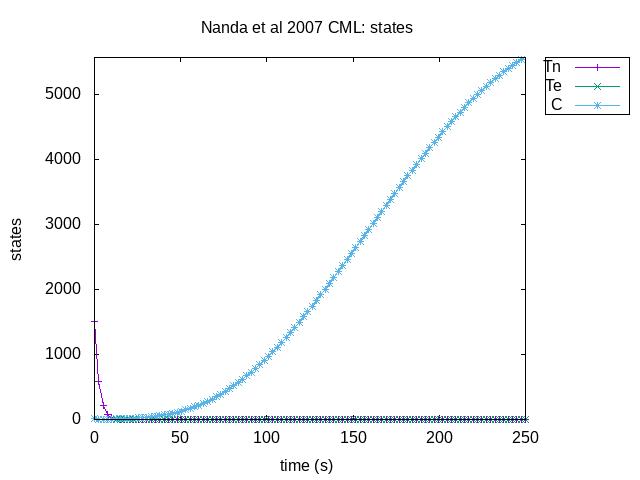
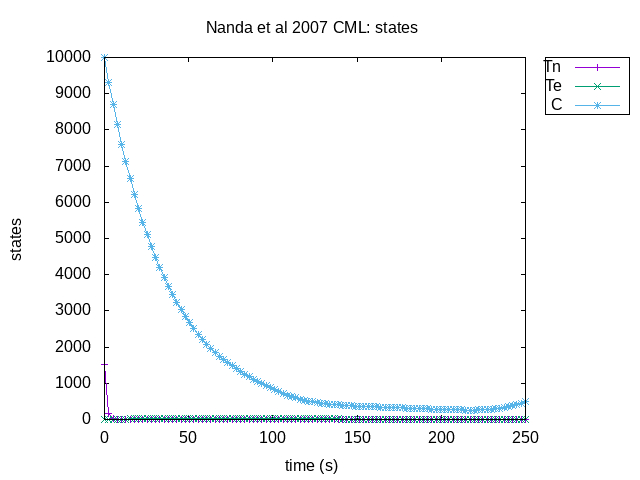
psopt fixed via hermite-simpson replacing trapezoidal

diff --git a/CML/nanda07/README.md b/CML/nanda07/README.md
@@ -168,10 +168,15 @@ ggsave("CML/immuno/outs/nandaFig2aCU12.png",height=3,width=4)
 ```
 
 The control efforts do not match the paper exactly, but their impacts on C are fairly similar. 
+Note: replacing bvpshoot() with bvptwp() and bvpcol() threw errors. 
 
-Note 1: attempts to replace bvpshoot() with bvptwp() and bvpcol() failed with errors. 
+The C++ program PSOPT (see user.cxx in this folder) produced these plots.  
 
-Note 2: The C++ program PSOPT (see user.cxx in this folder) also failed, though it at least produced these plots.  
 ![](../../docs/nanda_controls.png)
+
+
+Here u1 and u2 match the paper better in that they start high and fall, but drop timings
+are sooner here, which may explain CML cells rising at large times. 
+
 ![](../../docs/nanda_states.png)
 
